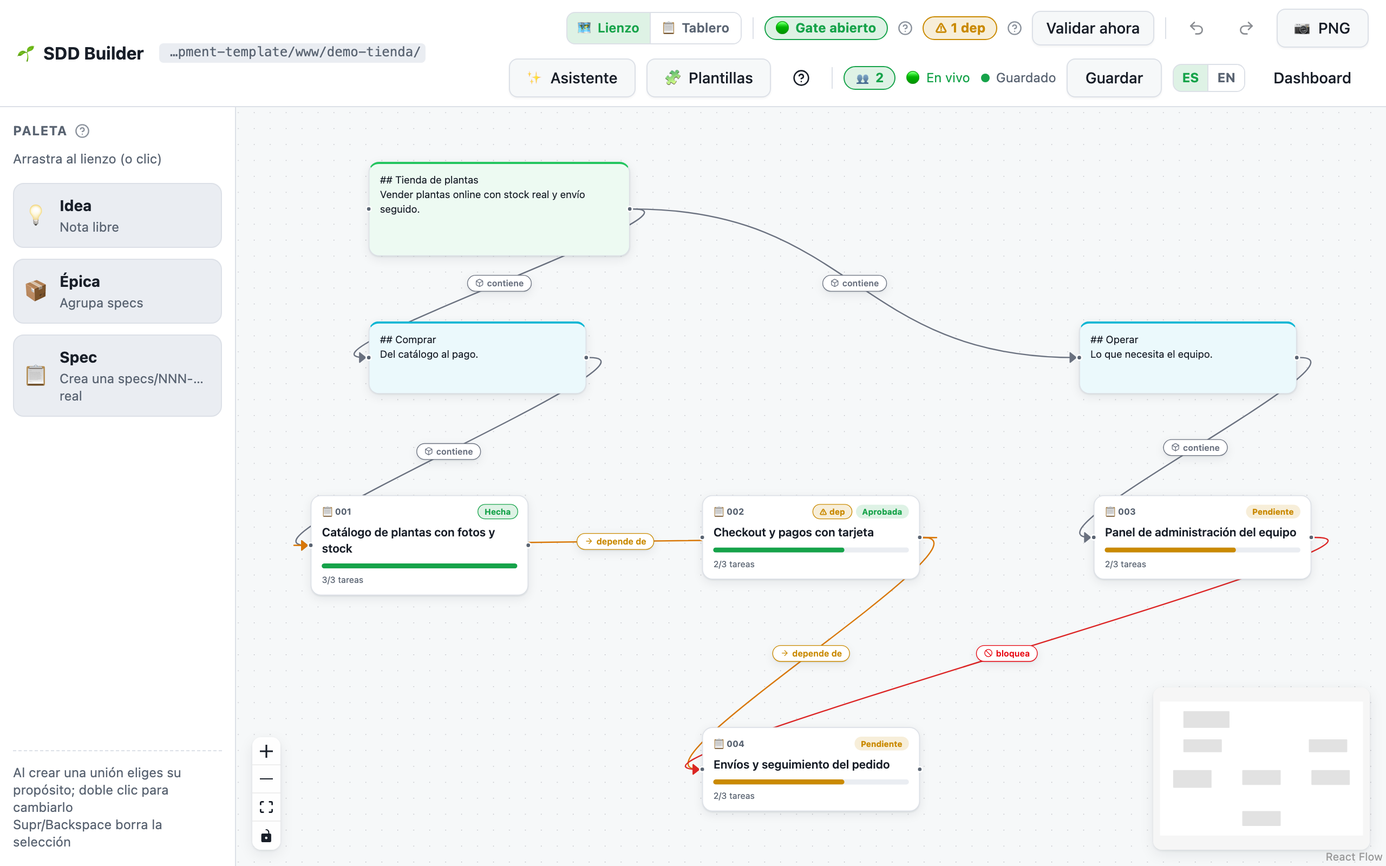
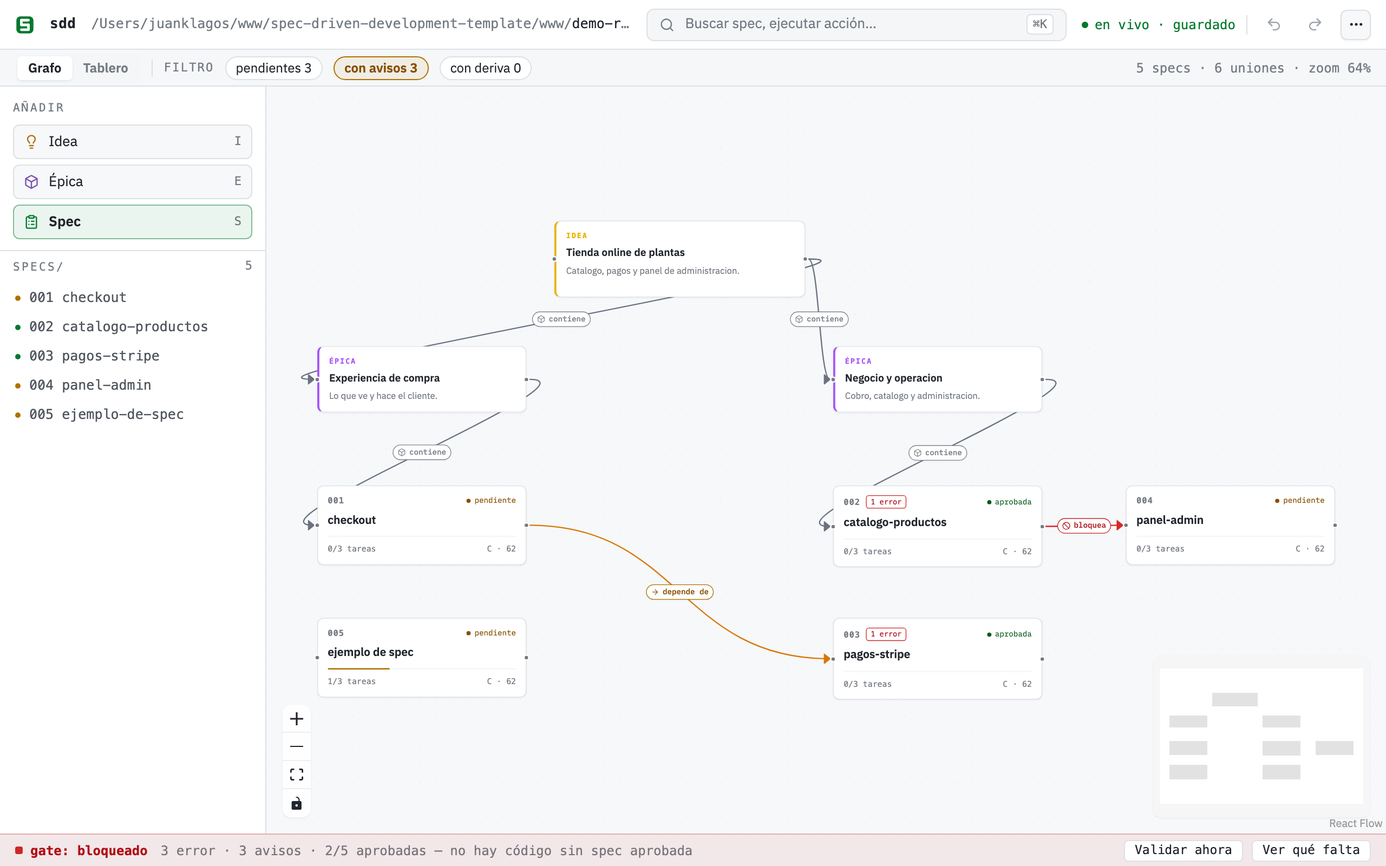
docs(builder): capturas y guia al dia con la chrome de cuatro franjas
Las cinco capturas mostraban la interfaz anterior a la spec 030 -- una barra
superior con botones de emoji que ya no existe -- y el texto mandaba al
lector a buscarlos ahi. Documentacion que describe una UI que se elimino no
es neutral: manda a la gente a un sitio donde no hay nada.

- Capturas rehechas contra la interfaz actual (1280x800 @2x, igual que
  antes), con Chrome headless por CDP.
- Dos capturas nuevas para funciones que solo estaban en texto: el panel
  Conectar agente (spec 032) y Pedir al agente (spec 031), esta ultima
  mostrando la degradacion honesta cuando no hay agente escuchando.
- Nueve referencias a "la barra superior" por guia reescritas a donde vive
  cada cosa hoy: cmd-K, el menu de tres puntos, la franja de contexto y la
  barra del gate abajo. Emojis de chrome fuera, como hizo la 030 en la UI.
- El pie de la captura principal describia otro estado (gate abierto, aviso
  de dependencia) que la imagen nueva no muestra.
- El tablero de la demo gana una nota de idea, dos epicas y seis uniones
  etiquetadas, para que la captura ensene lo que la guia promete: antes
  decia "0 uniones".
- Guia 52 (actualizacion) registrada en el sidebar del sitio; 53 guias
  sincronizadas y `astro build` en verde con 111 paginas.

diff --git a/docs/es/51-guia-visual-sdd-builder.md b/docs/es/51-guia-visual-sdd-builder.md
@@ -2,9 +2,9 @@
 
 El SDD Builder es un lienzo drag-and-drop donde compones tu flujo SDD como tarjetas conectadas, y cada tarjeta es un bundle **real** `specs/NNN-slug/` en disco. Tu markdown sigue siendo la fuente de verdad: aprobar, editar y marcar tareas son operaciones que tocan solo lo justo dentro de tus archivos `.md`, mientras el lienzo no guarda más que posiciones y uniones en `specs/board.canvas` (el formato abierto JSON Canvas). Esta guía recorre el producto completo, desde los dos comandos que lo abren hasta usarlo desde un agente IA, con capturas reales de un proyecto demo pequeño: una tienda online de plantas.
 
-![El lienzo del SDD Builder: notas de idea y épicas a la izquierda, tarjetas de spec con badges de estado y barras de progreso, una unión roja «bloquea» y una ámbar «depende de», y el semáforo del gate con un aviso de dependencia en la barra superior](../assets/builder/canvas.png)
+![El lienzo del SDD Builder: arriba la barra de identidad con la ruta del workspace y el buscador ⌘K; debajo la franja de contexto (Grafo/Tablero y filtros); a la izquierda el rail con Idea/Épica/Spec y la lista de specs/; en el centro una nota de idea que contiene dos épicas, tarjetas de spec con estado y puntaje, una unión ámbar «depende de» y una roja «bloquea»; abajo la barra del gate con el veredicto y la regla siempre visible](../assets/builder/canvas.png)
 
-*Un board, toda la verdad: gate abierto (🟢), un aviso ámbar `⚠ 1 dep`, uniones tipadas entre specs reales y el progreso de cada tarjeta leído en vivo de `tasks.md`.*
+*Un board, toda la verdad: el gate declara «bloqueado» con sus cuentas y su regla, las uniones tipadas dicen qué contiene qué y qué depende de qué, y el progreso y el puntaje de cada tarjeta se leen en vivo de tus `.md`.*
 
 ## Inicio rápido
 
@@ -64,7 +64,7 @@ SDD_PROJECT_ROOT=/ruta/a/mi-proyecto npx @juanklagos/sdd-mcp@latest --http
 
 ### Paso 3 — Lo que verás la primera vez
 
-El lienzo abre vacío si el proyecto aún no tiene specs, y eso es lo correcto: en SDD todavía no hay contrato en disco. Un **tour de bienvenida** te ofrece cinco pasos anclados (paleta → crear → conectar → tareas → gate); descártalo con «No mostrar de nuevo» y relánzalo cuando quieras desde el botón «?» de la barra superior. Para llenar el board de un tirón, usa el **✨ Asistente** de la barra superior, que se explica más abajo.
+El lienzo abre vacío si el proyecto aún no tiene specs, y eso es lo correcto: en SDD todavía no hay contrato en disco. Un **tour de bienvenida** te ofrece cinco pasos anclados (paleta → crear → conectar → tareas → gate); descártalo con «No mostrar de nuevo» y relánzalo cuando quieras desde ⌘K («tour») o el menú **⋯**. Para llenar el board de un tirón, usa el **asistente** desde ⌘K, que se explica más abajo.
 
 <details>
 <summary>Ruta larga: trabajar dentro de un clon de este repositorio (contribuyentes al template)</summary>
@@ -97,7 +97,7 @@ Todo ese texto vive en los diccionarios i18n (`builder/src/i18n.ts` y los diccio
 
 ## Tu primer proyecto con el asistente ✨
 
-La forma más rápida de pasar de nada a un board conectado es el botón **✨ Asistente** de la barra superior. Describe tu proyecto en una frase — *«una tienda online de plantas con catálogo, pagos y panel de administración»* — y el builder propone un borrador de board: una nota de idea, 2-4 épicas y 3-6 specs agrupadas por los dominios que detecta (auth, pagos, catálogo, admin, API, notificaciones, perfil, búsqueda; con un fallback MVP genérico cuando nada encaja).
+La forma más rápida de pasar de nada a un board conectado es el **asistente**, en ⌘K («asistente») o en el menú **⋯**. Describe tu proyecto en una frase — *«una tienda online de plantas con catálogo, pagos y panel de administración»* — y el builder propone un borrador de board: una nota de idea, 2-4 épicas y 3-6 specs agrupadas por los dominios que detecta (auth, pagos, catálogo, admin, API, notificaciones, perfil, búsqueda; con un fallback MVP genérico cuando nada encaja).
 
 ![El asistente ✨ con un borrador generado: tres specs agrupadas bajo las épicas Experiencia, Negocio y Operaciones, cada una editable antes de crear nada](../assets/builder/assistant.png)
 
@@ -118,7 +118,7 @@ Todo lo que hay en el lienzo corresponde a algo real:
 
 Las uniones tipadas se ganan el sueldo con los **avisos de dependencias**: cuando una unión tipada conecta dos specs reales y la spec dependiente está aprobada pero su dependencia no, el builder avisa — un chip ámbar `⚠ N dep` junto al semáforo del gate (lista completa en el tooltip) y un badge ámbar `⚠ dep` en la tarjeta dependiente, en ambas vistas. Solo consultivo: el gate nunca se cierra por esto. En la captura de arriba, `002-checkout-y-pagos` está aprobada pero depende de `004-envios-y-seguimiento`, que sigue pendiente: no puedes cobrar el total sin saber el costo del envío. De ahí el aviso.
 
-El **semáforo del gate** de la barra superior es el hard stop de SDD hecho visible: un chip vivo (🟢 abierto / 🔴 cerrado) más un botón «Validar ahora» que ejecuta la validación real del proyecto. Los errores del gate aparecen como badge rojo `⚠ N` con tooltip sobre la tarjeta afectada.
+La **barra del gate**, fija abajo, es el hard stop de SDD hecho visible: veredicto (abierto / cerrado / bloqueado), las cuentas de errores, avisos y specs aprobadas, la regla escrita —«no hay código sin spec aprobada»— y dos botones, «Validar ahora» y «Ver qué falta». Los errores del gate aparecen como badge rojo `⚠ N` con tooltip sobre la tarjeta afectada.
 
 Al hacer clic en cualquier tarjeta de spec se abre el **panel (drawer)**, el puente entre lienzo y markdown:
 
@@ -128,7 +128,7 @@ Al hacer clic en cualquier tarjeta de spec se abre el **panel (drawer)**, el pue
 
 En el panel, las tareas son checkboxes vivos: marcar uno cambia solo esa línea `- [ ]` de `tasks.md` a `- [x]`, y la barra de progreso de la tarjeta lo refleja. Debajo de las tareas tienes un extracto de `spec.md` en solo lectura — el contenido largo se edita en tu editor, por diseño: el lienzo compone, tu editor escribe.
 
-La **sincronización en vivo** evita que las dos caras se desincronicen. El servidor vigila tu directorio `specs/`: edita cualquier `tasks.md` en tu editor y la tarjeta se actualiza sola, sin recargar. La barra superior muestra **🟢 En vivo**; si el servidor se reinicia con otro workspace, un banner ámbar te pide recargar. Regla de concurrencia: tu markdown siempre gana; el layout del lienzo es «último escritor gana».
+La **sincronización en vivo** evita que las dos caras se desincronicen. El servidor vigila tu directorio `specs/`: edita cualquier `tasks.md` en tu editor y la tarjeta se actualiza sola, sin recargar. La barra de identidad muestra **en vivo · guardado**; si el servidor se reinicia con otro workspace, un banner ámbar te pide recargar. Regla de concurrencia: tu markdown siempre gana; el layout del lienzo es «último escritor gana».
 
 ## Editar y aprobar specs
 
@@ -150,11 +150,11 @@ Debajo de la lista de tareas hay un campo **«Nueva tarea para esta spec…»** 
 
 ### La bitácora desde el lienzo (spec 028)
 
-El botón **📖 Bitácora** de la barra superior abre un modal para registrar los cuatro tipos de entrada sin salir del canvas: **Decisión**, **Handoff**, **Daily log** y **Log global del proyecto**. Cada tipo pide lo que necesita (nombre de archivo `.md` para decisiones y handoffs, fecha para el daily, texto suelto para el log global) y precarga un esqueleto de markdown como placeholder. Lo escriben los mismos escritores de `sdd-core` que usan las herramientas MCP y los scripts, así que el formato no se bifurca según por dónde entres.
+La acción **Bitácora** (⌘K o el menú **⋯**) abre un modal para registrar los cuatro tipos de entrada sin salir del canvas: **Decisión**, **Handoff**, **Daily log** y **Log global del proyecto**. Cada tipo pide lo que necesita (nombre de archivo `.md` para decisiones y handoffs, fecha para el daily, texto suelto para el log global) y precarga un esqueleto de markdown como placeholder. Lo escriben los mismos escritores de `sdd-core` que usan las herramientas MCP y los scripts, así que el formato no se bifurca según por dónde entres.
 
-### STATUS y roadmap desde la barra superior (spec 028)
+### STATUS y roadmap desde ⌘K (spec 028)
 
-El botón **📊 Informes** regenera `STATUS.md` y `docs/roadmap.md` a partir de `specs/INDEX.md`, los mismos generadores que `sdd_generate_status` y `sdd_generate_roadmap`. Confirma con un ✓ y vuelve a su estado normal a los pocos segundos; si falla, el error queda en el tooltip del botón en vez de desaparecer.
+La acción **Informes** (⌘K o el menú **⋯**) regenera `STATUS.md` y `docs/roadmap.md` a partir de `specs/INDEX.md`, los mismos generadores que `sdd_generate_status` y `sdd_generate_roadmap`. Confirma con un ✓ y vuelve a su estado normal a los pocos segundos; si falla, el error queda en el tooltip del botón en vez de desaparecer.
 
 ### El semáforo de deriva (spec 025)
 
@@ -162,7 +162,7 @@ Una vez aprobada una spec, el builder vigila si el código que gobierna siguió 
 
 ## La vista de equipo
 
-El toggle **«🗺 Lienzo ↔ 📋 Tablero»** de la barra superior muestra las mismas specs como un kanban — tres columnas según el estado real de tus `.md`: **Borrador · Pendiente**, **Aprobada** (la línea `Estado / Status` del `spec.md`) y **Hecha** (todas las tareas marcadas). Las tarjetas conservan su barra de progreso y abren el mismo panel.
+El conmutador **«Grafo ↔ Tablero»** de la franja de contexto muestra las mismas specs como un kanban — tres columnas según el estado real de tus `.md`: **Borrador · Pendiente**, **Aprobada** (la línea `Estado / Status` del `spec.md`) y **Hecha** (todas las tareas marcadas). Las tarjetas conservan su barra de progreso y abren el mismo panel.
 
 ![La vista kanban: columna Borrador con dos specs, Aprobada con la spec de checkout y su aviso de dependencia, Hecha con el catálogo de plantas terminado](../assets/builder/kanban.png)
 
@@ -173,7 +173,7 @@ v1 honesta: arrastrar una tarjeta a otra columna *no cambia nada* en disco: apro
 Aquí viven dos funciones de equipo más:
 
 - **Tareas → issues de GitHub**: en el panel, «🐙 Crear issues» crea un issue de GitHub por cada tarea **pendiente** vía tu `gh` CLI local — título `[<specId>] <tarea>` para trazabilidad, cuerpo con enlace al `tasks.md` del bundle. Idempotente por título: las tareas cuyo título exacto ya existe se saltan, y el resultado se informa por tarea (creada / saltada / fallida) con enlaces. Degrada con honestidad: sin repo git, sin remote o sin `gh` autenticado recibes un error bilingüe claro que te dice exactamente qué ejecutar.
-- **Presencia**: cuando más de una persona (o agente) tiene el builder abierto sobre el mismo workspace, la barra superior muestra **👥 N** («N personas viendo este workspace») — con el mismo hub SSE de la sincronización en vivo, incluidas entradas y salidas.
+- **Presencia**: cuando más de una persona (o agente) tiene el builder abierto sobre el mismo workspace, la barra de identidad muestra el número de personas viendo el workspace — con el mismo hub SSE de la sincronización en vivo, incluidas entradas y salidas.
 
 ## Plantillas
 
@@ -188,6 +188,8 @@ Si prefieres partir de una forma probada en lugar de una frase, el botón **🧩
 Cualquier cliente MCP conectado a `sdd-mcp` puede trabajar con el mismo board. Las tools del board — `sdd_board_read`, `sdd_board_write`, `sdd_board_connect`, `sdd_read_tasks`, `sdd_set_task_done` — están respaldadas por la misma capa `sdd-core` que el lienzo, así que lo que tu agente escribe es lo que ves en `/builder` (y viceversa). Los agentes también tienen los poderes del panel (`sdd_gate_summary`, `sdd_approve_spec`, `sdd_update_spec_sections`, `sdd_create_spec`), y los avisos de dependencias aparecen en el campo `dependencyWarnings` de `sdd_gate_summary` y de `GET /api/gate`. Ver guía 41 (referencia completa de MCP).
 
 ### Conecta tu agente en un comando (spec 032)
+
+![El panel «Conectar agente»: el comando de conexión ya con la ruta del workspace, y debajo una fila de clientes (Claude Code, Codex, Cursor, VS Code, Windsurf, Gemini CLI, opencode) con el atajo para atender la cola y la configuración exacta del cliente seleccionado](../assets/builder/connect.png)
 
 La forma corta, desde la carpeta de tu proyecto:
 
@@ -286,6 +288,8 @@ Dónde está de verdad el estándar: la spec MCP 2026-07-28 es una release candi
 
 ### Modo conectado: «Ampliar con IA» sin copy-paste (spec 031)
 
+![El panel «Pedir al agente» abierto sobre el campo de tareas de una spec: avisa «sin agente», ofrece el atajo «Cómo conecto un agente» y, mientras tanto, el prompt clásico copiable con el contexto del campo ya dentro](../assets/builder/ai-assist.png)
+
 Todo campo editable de contenido del builder — las 7 secciones de `spec.md`,
 las tareas, las notas del lienzo y los borradores de bitácora — tiene un botón
 **✨ Ampliar con IA**. Al usarlo, el builder NO llama a ninguna API: publica
@@ -341,5 +345,5 @@ propósito: son la firma humana del gate.
 | Aprueba desde el panel | El bloque de aprobación real (estado, fecha, aprobador, evidencia) escrito en `spec.md` |
 | Guarda en la pestaña Editar del panel | Solo se reescriben las secciones guiadas de `spec.md` — aprobación y requisitos intactos |
 | Escribe en «Nueva tarea» y pulsa Añadir | Se añade una línea `- [ ] …` al final de `tasks.md` |
-| Guardas una entrada en 📖 Bitácora | Un archivo real en `bitacora/decisiones`, `handoffs`, `diaria` o una entrada en `bitacora/global/PROJECT_LOG.md` |
-| Pulsas 📊 Informes | Se regeneran `STATUS.md` y `docs/roadmap.md` desde `specs/INDEX.md` |
+| Guardas una entrada en Bitácora | Un archivo real en `bitacora/decisiones`, `handoffs`, `diaria` o una entrada en `bitacora/global/PROJECT_LOG.md` |
+| Ejecutas Informes | Se regeneran `STATUS.md` y `docs/roadmap.md` desde `specs/INDEX.md` |

diff --git a/docs/en/51-sdd-builder-visual-guide.md b/docs/en/51-sdd-builder-visual-guide.md
@@ -2,9 +2,9 @@
 
 The SDD Builder is a drag-and-drop canvas where you compose your SDD flow as connected cards, and every card is a **real** `specs/NNN-slug/` bundle on disk. Your markdown stays the source of truth: approving, editing and ticking tasks touch only the lines they have to inside your `.md` files, while the canvas stores nothing but positions and connections in `specs/board.canvas` (the open JSON Canvas format). This guide walks the whole product from the two commands that open it to running it from an AI agent, with real screenshots of a small demo project: an online plant store.
 
-![The SDD Builder canvas: idea and epic notes on the left, spec cards with status badges and progress bars, a red "bloquea" edge and an amber "depende de" edge, and the gate semaphore with a dependency warning in the top bar](../assets/builder/canvas.png)
+![The SDD Builder canvas: the identity bar on top with the workspace path and the ⌘K search; below it the context strip (Graph/Board and filters); on the left the rail with Idea/Epic/Spec and the specs/ list; in the middle an idea note containing two epics, spec cards with status and score, an amber "depends on" edge and a red "blocks" one; at the bottom the gate bar with the verdict and the rule always visible](../assets/builder/canvas.png)
 
-*One board, all the truth: gate open (🟢), an amber `⚠ 1 dep` warning, typed connections between real specs, and per-card progress read live from `tasks.md`.*
+*One board, all the truth: the gate declares "blocked" with its counts and its rule, typed connections say what contains what and what depends on what, and each card's progress and score are read live from your `.md` files.*
 
 ## Quick start
 
@@ -64,7 +64,7 @@ SDD_PROJECT_ROOT=/path/to/my-project npx @juanklagos/sdd-mcp@latest --http
 
 ### Step 3 — What you will see the first time
 
-The canvas opens empty if the project has no specs yet, and that is correct: in SDD there is no contract on disk yet. A **welcome tour** offers five anchored steps (palette → create → connect → tasks → gate); dismiss it with "Don't show again" and re-launch it anytime from the "?" button in the top bar. To fill the board in one go, use the **✨ Assistant** in the top bar, covered further down.
+The canvas opens empty if the project has no specs yet, and that is correct: in SDD there is no contract on disk yet. A **welcome tour** offers five anchored steps (palette → create → connect → tasks → gate); dismiss it with "Don't show again" and re-launch it anytime from ⌘K ("tour") or the **⋯** menu. To fill the board in one go, use the **assistant** from ⌘K, covered further down.
 
 <details>
 <summary>Longer route: working inside a clone of this repository (template contributors)</summary>
@@ -97,7 +97,7 @@ All of this text lives in the i18n dictionaries (`builder/src/i18n.ts` and the d
 
 ## Your first project with the ✨ assistant
 
-The fastest way to go from nothing to a connected board is the **✨ Assistant** button in the top bar. Describe your project in one sentence (*"an online plant store with catalog, payments and an admin panel"*) and the builder proposes a draft board: one idea note, 2-4 epics and 3-6 specs grouped by the domains it detects (auth, payments, catalog, admin, API, notifications, profile, search; with a generic MVP fallback when nothing matches).
+The fastest way to go from nothing to a connected board is the **assistant**, in ⌘K ("assistant") or the **⋯** menu. Describe your project in one sentence (*"an online plant store with catalog, payments and an admin panel"*) and the builder proposes a draft board: one idea note, 2-4 epics and 3-6 specs grouped by the domains it detects (auth, payments, catalog, admin, API, notifications, profile, search; with a generic MVP fallback when nothing matches).
 
 ![The ✨ assistant with a generated draft: three specs grouped under Experience, Business and Operations epics, each editable before anything is created](../assets/builder/assistant.png)
 
@@ -118,7 +118,7 @@ Everything on the canvas maps to something real:
 
 Typed connections earn their keep through **dependency warnings**: when a typed edge links two real specs and the dependent spec is approved while its dependency is not, the builder warns you. An amber `⚠ N dep` chip appears next to the gate semaphore (full list in the tooltip) and an amber `⚠ dep` badge on the dependent card, in both views. The warning is informational; the gate itself never closes because of it. In the screenshot above, `002-checkout-y-pagos` is approved but depends on `004-envios-y-seguimiento`, which is still pending: you cannot charge the total without knowing the shipping cost. Hence the warning.
 
-The **gate semaphore** in the top bar is the SDD hard stop made visible: a live chip (🟢 open / 🔴 closed) plus a "Validate now" button that runs the real project validation. Gate errors show up as a red `⚠ N` badge with a tooltip on the affected card.
+The **gate bar**, pinned at the bottom, is the SDD hard stop made visible: the verdict (open / closed / blocked), the counts of errors, warnings and approved specs, the rule written out — "no code before an approved spec" — and two buttons, "Validate now" and "What is missing". Gate errors show up as a red `⚠ N` badge with a tooltip on the affected card.
 
 Clicking any spec card opens the **drawer** — the bridge between canvas and markdown:
 
@@ -128,7 +128,7 @@ Clicking any spec card opens the **drawer** — the bridge between canvas and ma
 
 In the drawer, tasks are live checkboxes: toggling one flips the `- [ ]` line in `tasks.md` to `- [x]` surgically, and the card's progress bar follows. Below the tasks you get a read-only excerpt of `spec.md` — long-form content is edited in your editor, by design: the canvas composes, your editor writes.
 
-**Live sync** keeps the two sides from drifting. The server watches your `specs/` directory: edit any `tasks.md` in your editor and the card updates by itself, no reload. The top bar shows **🟢 Live**; if the server restarts on a different workspace, an amber banner asks you to reload. Concurrency rule: your markdown always wins; canvas layout is last-writer-wins.
+**Live sync** keeps the two sides from drifting. The server watches your `specs/` directory: edit any `tasks.md` in your editor and the card updates by itself, no reload. The identity bar shows **live · saved**; if the server restarts on a different workspace, an amber banner asks you to reload. Concurrency rule: your markdown always wins; canvas layout is last-writer-wins.
 
 ## Editing and approving specs
 
@@ -150,11 +150,11 @@ Below the task list there is a **"New task for this spec…"** field with its **
 
 ### The logbook from the canvas (spec 028)
 
-The **📖 Logbook** button in the top bar opens a modal to record all four entry types without leaving the canvas: **Decision**, **Handoff**, **Daily log** and **Global project log**. Each type asks for what it needs (a `.md` file name for decisions and handoffs, a date for the daily, free text for the global log) and preloads a markdown skeleton as a placeholder. The same `sdd-core` writers the MCP tools and the scripts use do the writing, so the format never forks depending on where you came in from.
+The **Logbook** action (⌘K or the **⋯** menu) opens a modal to record all four entry types without leaving the canvas: **Decision**, **Handoff**, **Daily log** and **Global project log**. Each type asks for what it needs (a `.md` file name for decisions and handoffs, a date for the daily, free text for the global log) and preloads a markdown skeleton as a placeholder. The same `sdd-core` writers the MCP tools and the scripts use do the writing, so the format never forks depending on where you came in from.
 
-### STATUS and roadmap from the top bar (spec 028)
+### STATUS and roadmap from ⌘K (spec 028)
 
-The **📊 Reports** button regenerates `STATUS.md` and `docs/roadmap.md` from `specs/INDEX.md` — the same generators behind `sdd_generate_status` and `sdd_generate_roadmap`. It confirms with a ✓ and returns to normal after a few seconds; if it fails, the error stays in the button's tooltip instead of vanishing.
+The **Reports** action (⌘K or the **⋯** menu) regenerates `STATUS.md` and `docs/roadmap.md` from `specs/INDEX.md` — the same generators behind `sdd_generate_status` and `sdd_generate_roadmap`. It confirms with a ✓ and returns to normal after a few seconds; if it fails, the error stays in the button's tooltip instead of vanishing.
 
 ### The drift semaphore (spec 025)
 
@@ -162,7 +162,7 @@ Once a spec is approved, the builder watches whether the code it governs kept mo
 
 ## The team view
 
-The **"🗺 Canvas ↔ 📋 Board" toggle** in the top bar shows the same specs as a kanban — three columns driven by the real state of your `.md` files: **Draft · Pending**, **Approved** (the `Estado / Status` line in `spec.md`), and **Done** (every task ticked). Cards keep their progress bar and open the same drawer.
+The **"Graph ↔ Board" toggle** in the context strip shows the same specs as a kanban — three columns driven by the real state of your `.md` files: **Draft · Pending**, **Approved** (the `Estado / Status` line in `spec.md`), and **Done** (every task ticked). Cards keep their progress bar and open the same drawer.
 
 ![The kanban view: Draft column with two specs, Approved with the checkout spec carrying its dependency warning, Done with the finished plant catalogue](../assets/builder/kanban.png)
 
@@ -173,7 +173,7 @@ In v1, dragging a card to another column changes *nothing* on disk. Approval is 
 Two more team features live here:
 
 - **Tasks → GitHub issues**: in the drawer, "🐙 Create issues" creates one GitHub issue per **pending** task via your local `gh` CLI: title `[<specId>] <task>` for traceability, body linking the bundle's `tasks.md`. Idempotent by title: tasks whose exact title already exists are skipped, and the result is reported per task (created / skipped / failed) with links. Without a git repo, a remote, or an authenticated `gh` it does not fail vaguely; you get a clear bilingual error telling you exactly what to run.
-- **Presence**: when more than one person (or agent) has the builder open on the same workspace, the top bar shows **👥 N** ("N people viewing this workspace") — powered by the same SSE hub as live sync, join/leave updates included.
+- **Presence**: when more than one person (or agent) has the builder open on the same workspace, the identity bar shows how many people are viewing the workspace — powered by the same SSE hub as live sync, join/leave updates included.
 
 ## Templates
 
@@ -188,6 +188,8 @@ If you would rather start from a proven shape than from a sentence, the **🧩 T
 Any MCP client connected to `sdd-mcp` can work with the same board. The board tools — `sdd_board_read`, `sdd_board_write`, `sdd_board_connect`, `sdd_read_tasks`, `sdd_set_task_done` — are backed by the exact same `sdd-core` layer as the canvas, so what your agent writes is what you see in `/builder` (and vice versa). Agents also get the drawer's powers (`sdd_gate_summary`, `sdd_approve_spec`, `sdd_update_spec_sections`, `sdd_create_spec`), and the dependency warnings appear in the `dependencyWarnings` field of `sdd_gate_summary` and of `GET /api/gate`. See guide 41 (complete MCP reference).
 
 ### Connect your agent in one command (spec 032)
+
+![The "Connect agent" panel: the connect command already carrying the workspace path, and below it a row of clients (Claude Code, Codex, Cursor, VS Code, Windsurf, Gemini CLI, opencode) with the shortcut that serves the queue and the exact configuration for the selected one](../assets/builder/connect.png)
 
 The short way, from your project folder:
 
@@ -286,6 +288,8 @@ Where the standard actually is: the MCP 2026-07-28 spec is a release candidate f
 
 ### Connected mode: "Expand with AI" without copy-paste (spec 031)
 
+![The "Ask the agent" panel open over a spec's task field: it says "no agent", offers the "How do I connect an agent" shortcut and, meanwhile, the classic copyable prompt with the field's context already inside](../assets/builder/ai-assist.png)
+
 Every editable content field in the builder — the 7 `spec.md` sections,
 tasks, canvas notes and bitácora drafts — has an **✨ Expand with AI**
 button. Using it, the builder does NOT call any AI API: it publishes a
@@ -340,5 +344,5 @@ the gate.
 | Approve in the drawer | The real approval block (status, date, approver, evidence) written into `spec.md` |
 | Save in the drawer's Edit tab | Only the guided sections of `spec.md` are rewritten — approval and requirements untouched |
 | Type in "New task" and hit Add | A `- [ ] …` line is appended to `tasks.md` |
-| Save an entry in 📖 Logbook | A real file in `bitacora/decisiones`, `handoffs`, `diaria`, or an entry in `bitacora/global/PROJECT_LOG.md` |
-| Hit 📊 Reports | `STATUS.md` and `docs/roadmap.md` are regenerated from `specs/INDEX.md` |
+| Save an entry in Logbook | A real file in `bitacora/decisiones`, `handoffs`, `diaria`, or an entry in `bitacora/global/PROJECT_LOG.md` |
+| Run Reports | `STATUS.md` and `docs/roadmap.md` are regenerated from `specs/INDEX.md` |
